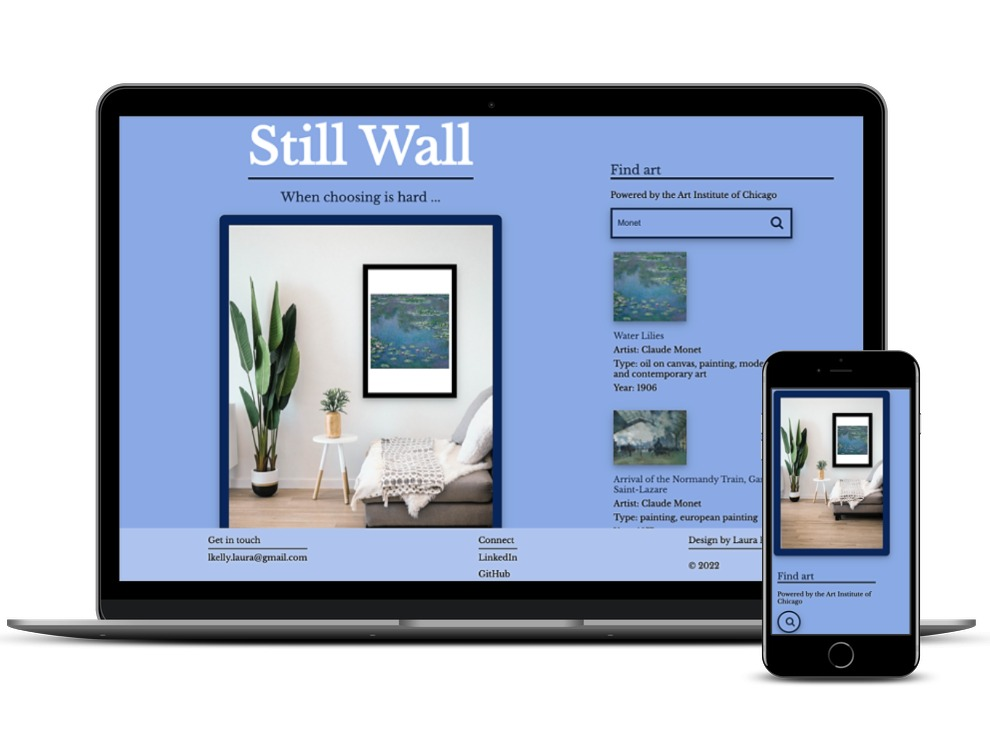
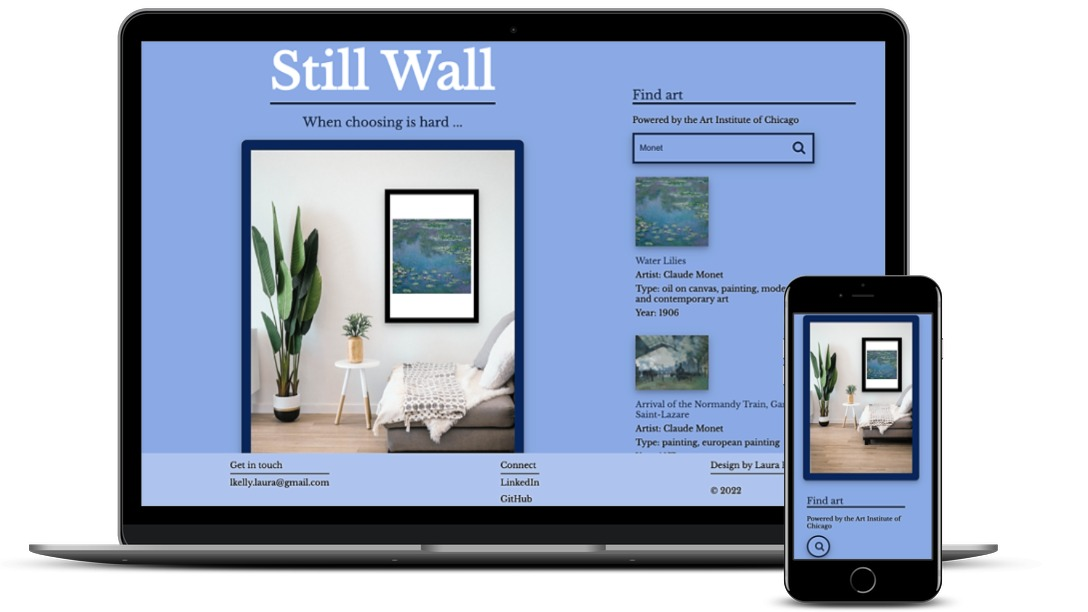
Updates to README.

diff --git a/css/style.css b/css/style.css
@@ -255,7 +255,7 @@ h5 {
   .mainView {
     display: flex;
     flex-flow: row wrap;
-    margin: 2vw;
+    margin: 10vw;
     width: 80vw;
     /* flex-grow: 1; */
   }

diff --git a/README.md b/README.md
@@ -1,8 +1,8 @@
 <img src="https://github.com/laurakelly1/wall-art-app/blob/main/images/websiteHeading.png" />
-There are currently no artworks hanging in my home! Along with the financial commitment issues I have, I struggled to imagine the chosen artwork bring my living room alive. Enter: Still Wall.
+There are currently no artworks hanging in my home! Along with the financial commitment issues I have, I struggled to imagine the chosen artwork bringing my living room alive. Enter: Still Wall.
 <br>
 <br>
-This website allows users to search through the Chicago Institute of Art’s database and see their chosen image displayed on a mockup of a wall at home. It makes the imagining easy!
+This website allows users to search through the Chicago Institute of Art’s database and see their chosen image displayed on a mockup of a wall at home. It makes choosing easy!
 
 <h2>Technologies Used</h2>
 <ul>
@@ -19,7 +19,7 @@ This website allows users to search through the Chicago Institute of Art’s dat
 <img src="https://github.com/laurakelly1/wall-art-app/blob/main/images/screenshot.jpg"/>
 
 <h2> Getting Started</h2>
-<a href="https://laurakelly1.github.io/wall-art-app/">Click here</a>to see your favourite pieces from the Chicago Institude of Art presented on your living room wall!
+<a href="https://laurakelly1.github.io/wall-art-app/">Click here</a> to see your favourite pieces from the Chicago Institude of Art presented on your living room wall!
 
 <h2>Future Enhancements</h2>
 <li>Allow user to pick the room (bathroom, kitchen etc.) </li>
@@ -32,9 +32,8 @@ All work and ideas tracked on Trello.
 <a href="https://trello.com/b/OewotNZE/wip">Click here</a> to see the work in progress!
 
 <h2>API</h2>
-The Chicago Insitute of Art
 <br>
-All documentation regard the API used for this project can be found <a href="https://api.artic.edu/docs/#introduction">here!</a>
+All documentation regarding the Chicago Institute of Art API used for this project can be found <a href="https://api.artic.edu/docs/#introduction">here!</a>
 
 <h2>Image sources</h2>
 Room image sourced from: https://unsplash.com
